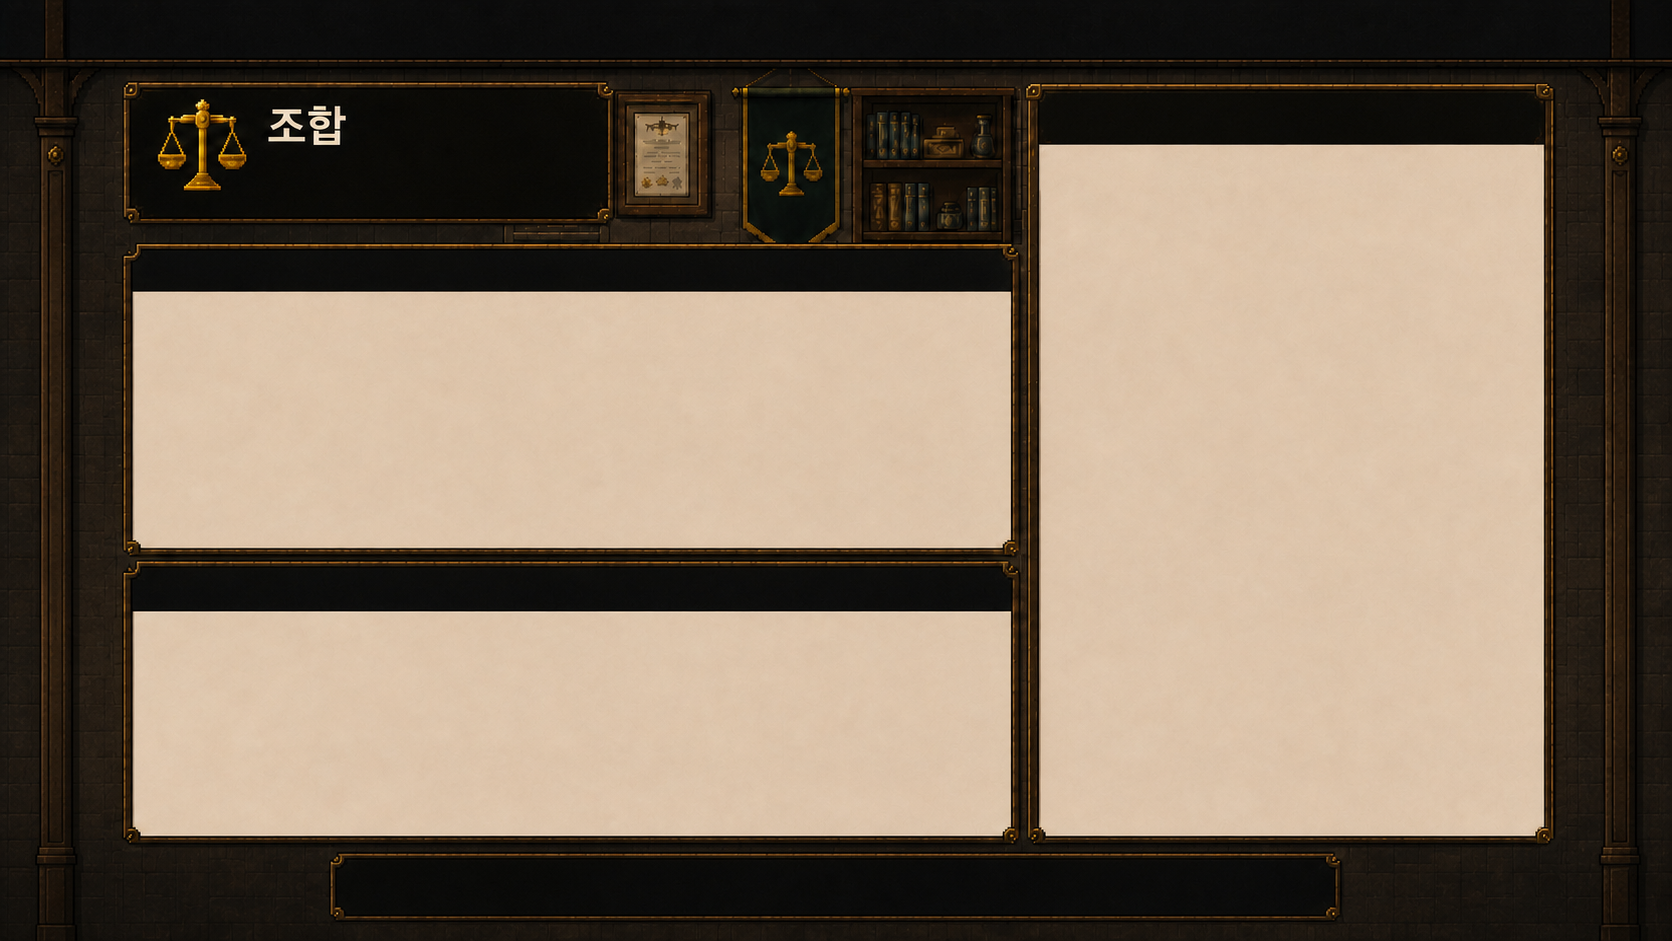
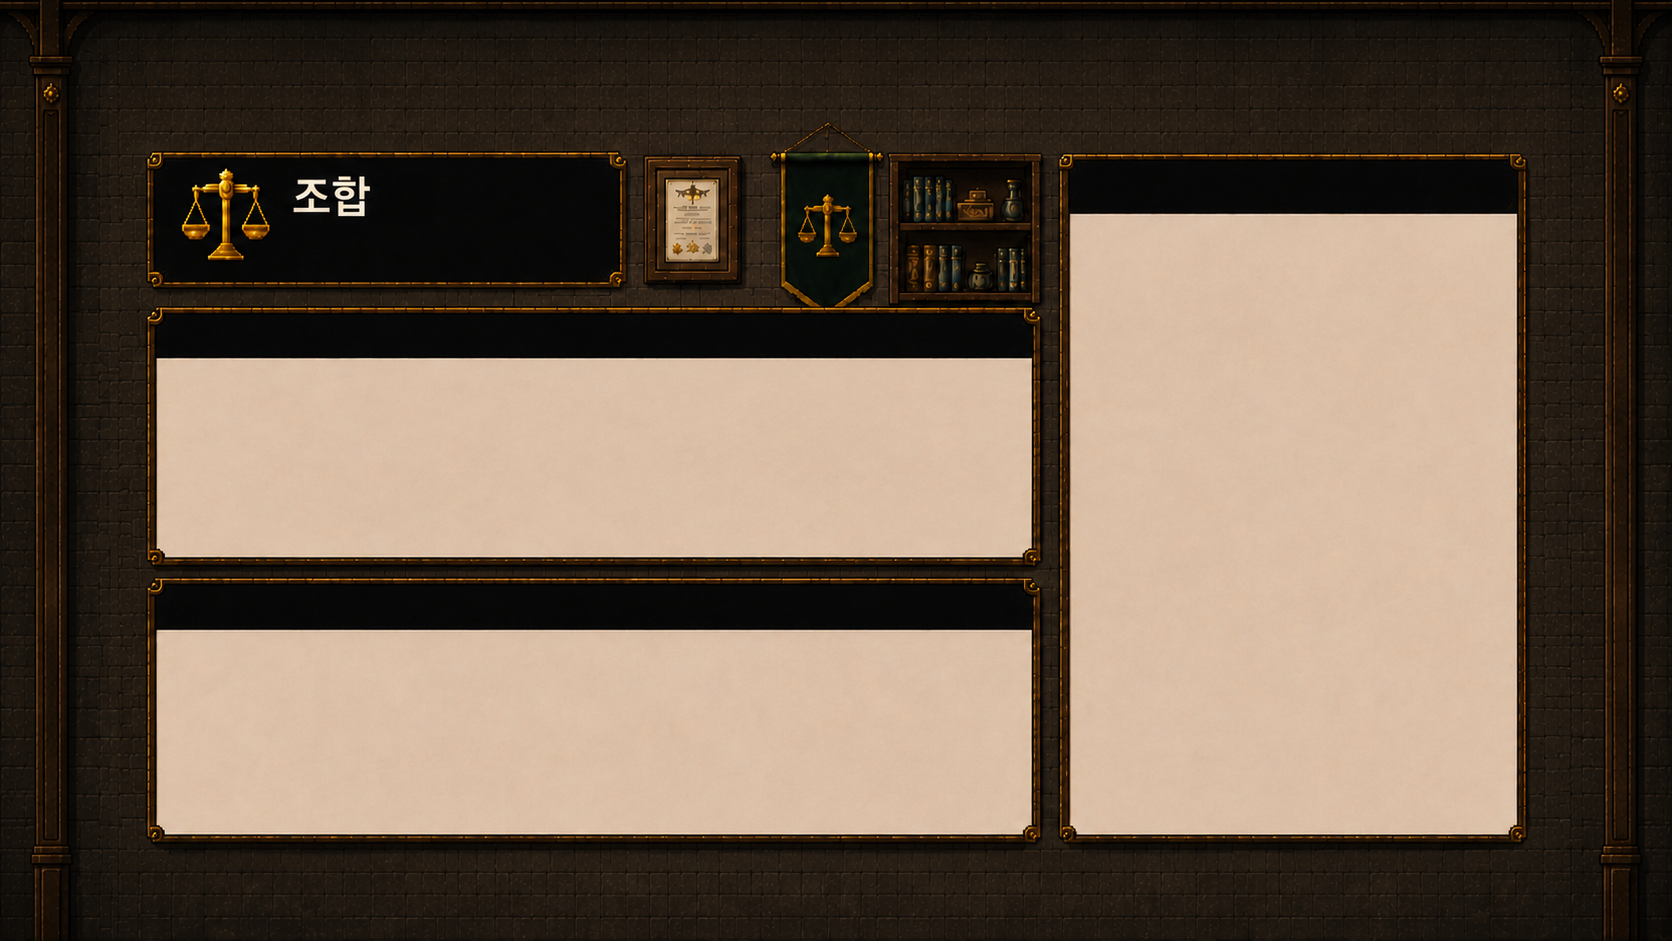
feat: 조합 화면을 새 프레임 배경에 맞춘다

Changed region(s): [[0.0, 0.0, 0.9952, 0.9862], [0.9641, 0.6164, 0.9952, 0.6472]]

diff --git a/Runtime/runtime-fixes.css b/Runtime/runtime-fixes.css
@@ -105,11 +105,9 @@ body > dialog[open] { transform: scale(var(--browser-zoom-inverse)); transform-o
 [data-scene="shop"] { --mockup: url("./assets/scene-backgrounds/shop.png"); }
 [data-scene="guild"] { --mockup: url("./assets/scene-backgrounds/guild.png"); }
 [data-scene="guild"]::before {
-  /* The painted guild frame is a few pixels wider than strict 16:9. Keep its
-     native ratio and bleed one pixel so the frame is not stretched or split. */
-  inset: -1px;
+  inset: 0;
   background-position: center;
-  background-size: cover;
+  background-size: 100% 100%;
   image-rendering: auto;
 }
 [data-scene="museum"] { --mockup: url("./assets/scene-backgrounds/museum.png"); }
@@ -802,21 +800,18 @@ button.secondary:disabled { background-image: url("./assets/ui/skin-v1/button-se
 /* Guild: place live data inside the three empty areas painted into the mockup. */
 [data-scene="guild"] { padding: 0; }
 [data-scene="guild"] .guild-heading {
-  position: absolute; z-index: 3; left: 7.7%; top: 12.9%; width: 52.8%; height: 12.8%;
-  box-sizing: border-box; display: flex; flex-direction: column-reverse; justify-content: center;
-  padding: 10px 28px 10px 118px; color: #f0e5d1;
-  border: 14px solid transparent; border-image: url("./assets/ui/skin-v1/panel-dark.png") 48 fill / 14px / 0 stretch;
+  display: none;
 }
 [data-scene="guild"] .guild-heading::before { content: "⚖"; position: absolute; left: 36px; top: 50%; transform: translateY(-50%); color: #ddb14e; font-size: clamp(34px,4vw,62px); }
 [data-scene="guild"] .guild-heading h2 { display: block; margin: 0; font-size: clamp(25px,2.5vw,42px); }
 [data-scene="guild"] .guild-heading .eyebrow { display: block; margin: 2px 0 0; color: #d7c8ad; font-size: clamp(9px,.85vw,14px); }
 [data-scene="guild"] .guild-heading strong { position: absolute; right: 0; top: 0; }
 [data-scene="guild"] #guild-detail {
-  position: absolute; left: 7.7%; top: 27.2%; width: 52.8%; height: 29.7%;
-  box-sizing: border-box; margin: 0; padding: 12px 20px; overflow: hidden;
+  position: absolute; left: 8.7%; top: 32.8%; width: 53.4%; height: 26.7%;
+  box-sizing: border-box; margin: 0; padding: 48px 20px 8px; overflow: hidden;
   border: 0; background: transparent; box-shadow: none; color: #21180f;
 }
-[data-scene="guild"] #guild-detail > h3 { margin: 0 0 8px; font-size: clamp(15px,1.3vw,22px); }
+[data-scene="guild"] #guild-detail > h3 { position: absolute; left: 20px; top: 10px; margin: 0; color: #eadcc3; font-size: clamp(15px,1.3vw,22px); }
 [data-scene="guild"] .guild-status-grid { display: grid; grid-template-columns: 32% 1fr; gap: 14px; }
 [data-scene="guild"] .guild-status-grid section { display: grid; align-content: center; gap: 4px; padding: 9px 12px; border: 1px solid #aa9272; background: #ead8bd99; }
 [data-scene="guild"] .guild-status-grid section strong { color: #9f2d20; font-size: clamp(15px,1.35vw,23px); }
@@ -829,7 +824,7 @@ button.secondary:disabled { background-image: url("./assets/ui/skin-v1/button-se
 [data-scene="guild"] .collateral-picker select { flex: 1; min-width: 0; height: 32px; }
 [data-scene="guild"] #loan-preview { margin: 6px 0 0; font-size: clamp(9px,.76vw,13px); }
 [data-scene="guild"] #guild-collateral-list {
-  position: absolute; right: 6.3%; top: 10.6%; width: 31.7%; height: 78.5%;
+  position: absolute; right: 8.8%; top: 16.5%; width: 27.7%; height: 72.7%;
   box-sizing: border-box; display: grid; grid-template-rows: auto 1fr auto; padding: 10px 15px 14px;
   color: #2c2116; background: transparent;
 }
@@ -851,7 +846,7 @@ button.secondary:disabled { background-image: url("./assets/ui/skin-v1/button-se
 [data-scene="guild"] #guild-collateral-list > footer { display: flex; justify-content: space-between; align-items: center; padding: 12px 8px 4px; border-top: 1px solid #b49a75; }
 [data-scene="guild"] #guild-limit-total { color: #47732b; font-size: clamp(16px,1.4vw,24px); }
 [data-scene="guild"] .actions {
-  position: absolute; left: 7.7%; top: 61%; width: 52.8%; height: 23.8%;
+  position: absolute; left: 8.7%; top: 62.6%; width: 53.4%; height: 26.4%;
   box-sizing: border-box; display: grid; grid-template-columns: repeat(2,minmax(0,1fr)); align-items: center; gap: 18px;
   margin: 0; padding: 42px 22px 16px; border: 0; background: transparent;
 }
@@ -865,7 +860,7 @@ button.secondary:disabled { background-image: url("./assets/ui/skin-v1/button-se
 }
 [data-scene="guild"] #guild-message p { display: inline; margin-left: 12px; }
 [data-scene="guild"] .return-city {
-  position: absolute; left: 7.7%; bottom: 1.4%; width: 17%; height: 6.2%;
+  position: absolute; left: 8.7%; bottom: 1.4%; width: 17%; height: 6.2%;
   z-index: 8; color: #fff7df !important; font-weight: 900; text-shadow: 0 2px 2px #000;
   opacity: 1 !important; filter: none !important; pointer-events: auto;
   background: #17130f url("./assets/ui/skin-v1/button-secondary.png") center / 100% 100% no-repeat !important;
@@ -3186,16 +3181,16 @@ button.secondary:not(.save-slot):disabled { border-image-source: url("./assets/u
   display: block; margin: 0; font-size: clamp(9px, .76vw, 13px); line-height: 1.35;
 }
 [data-scene="guild"] #guild-detail {
-  padding: 12px 24px;
+  padding: 48px 24px 8px;
 }
 [data-scene="guild"] .guild-status-grid {
   grid-template-columns: 34% minmax(0, 1fr); gap: 10px;
 }
 [data-scene="guild"] .collateral-picker {
-  margin-top: 12px;
+  margin-top: 6px;
 }
 [data-scene="guild"] #loan-preview {
-  margin-top: 8px; color: #684519; font-weight: 700;
+  margin-top: 3px; color: #684519; font-weight: 700;
 }
 
 /* Guild: use the signboards painted into the scene background. */

diff --git a/Runtime/test/runtime.test.js b/Runtime/test/runtime.test.js
@@ -78,7 +78,9 @@ test('run start and every day transition keep the painted loading scene visible 
 
 test('guild artwork keeps its native ratio inside the 16:9 canvas', async () => {
   const css = await readFile(new URL('../runtime-fixes.css', import.meta.url), 'utf8');
-  assert.match(css, /\[data-scene="guild"\]::before\s*\{[\s\S]*?inset: -1px;[\s\S]*?background-size: cover;/);
+  assert.match(css, /\[data-scene="guild"\]::before\s*\{[\s\S]*?inset: 0;[\s\S]*?background-size: 100% 100%;/);
+  assert.match(css, /\[data-scene="guild"\] \.guild-heading\s*\{\s*display: none;/);
+  assert.match(css, /#guild-collateral-list\s*\{[\s\S]*?top: 16\.5%;/);
 });
 
 test('the 16:9 canvas can grow beyond 1600 by 900', async () => {
